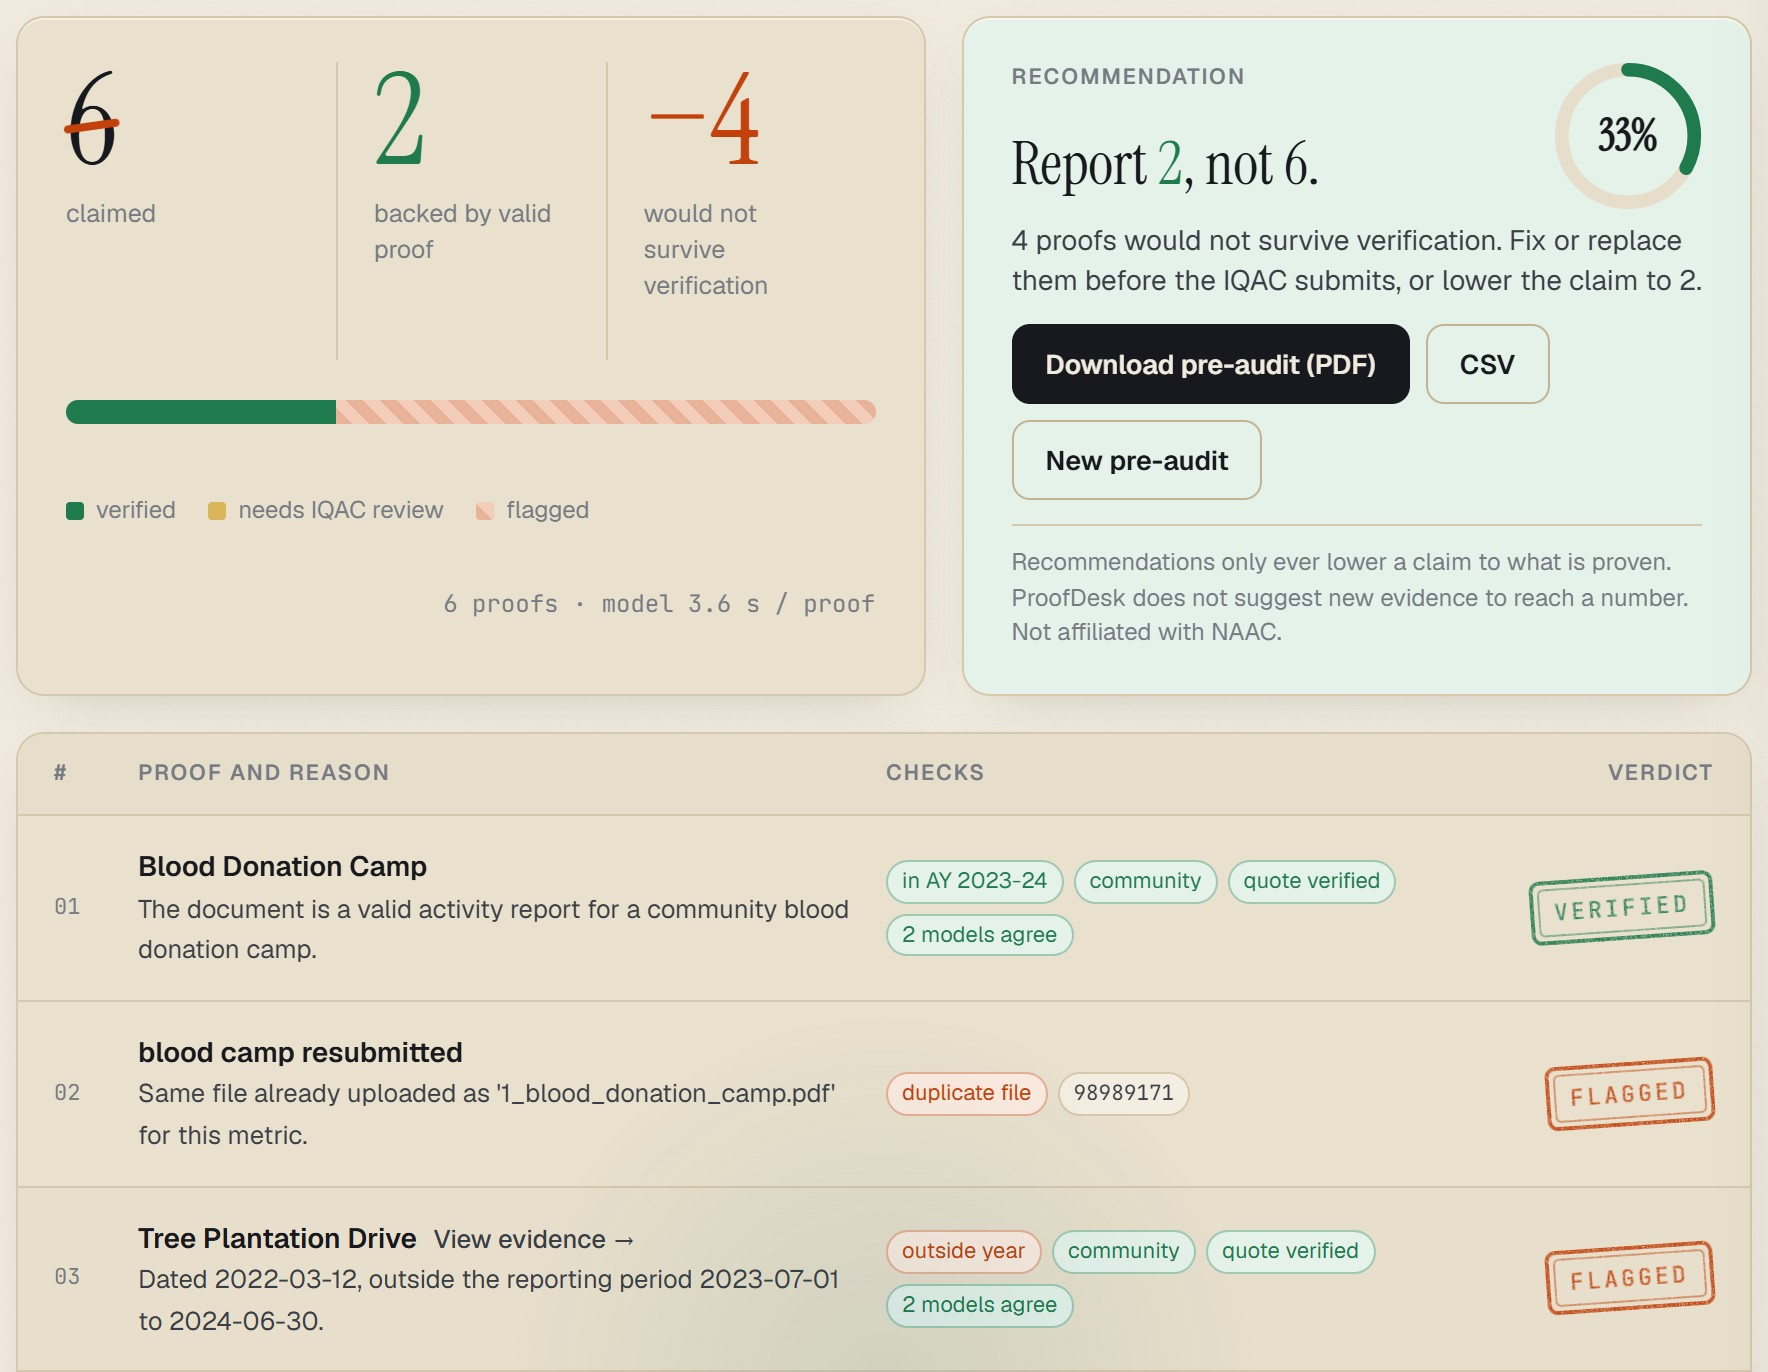
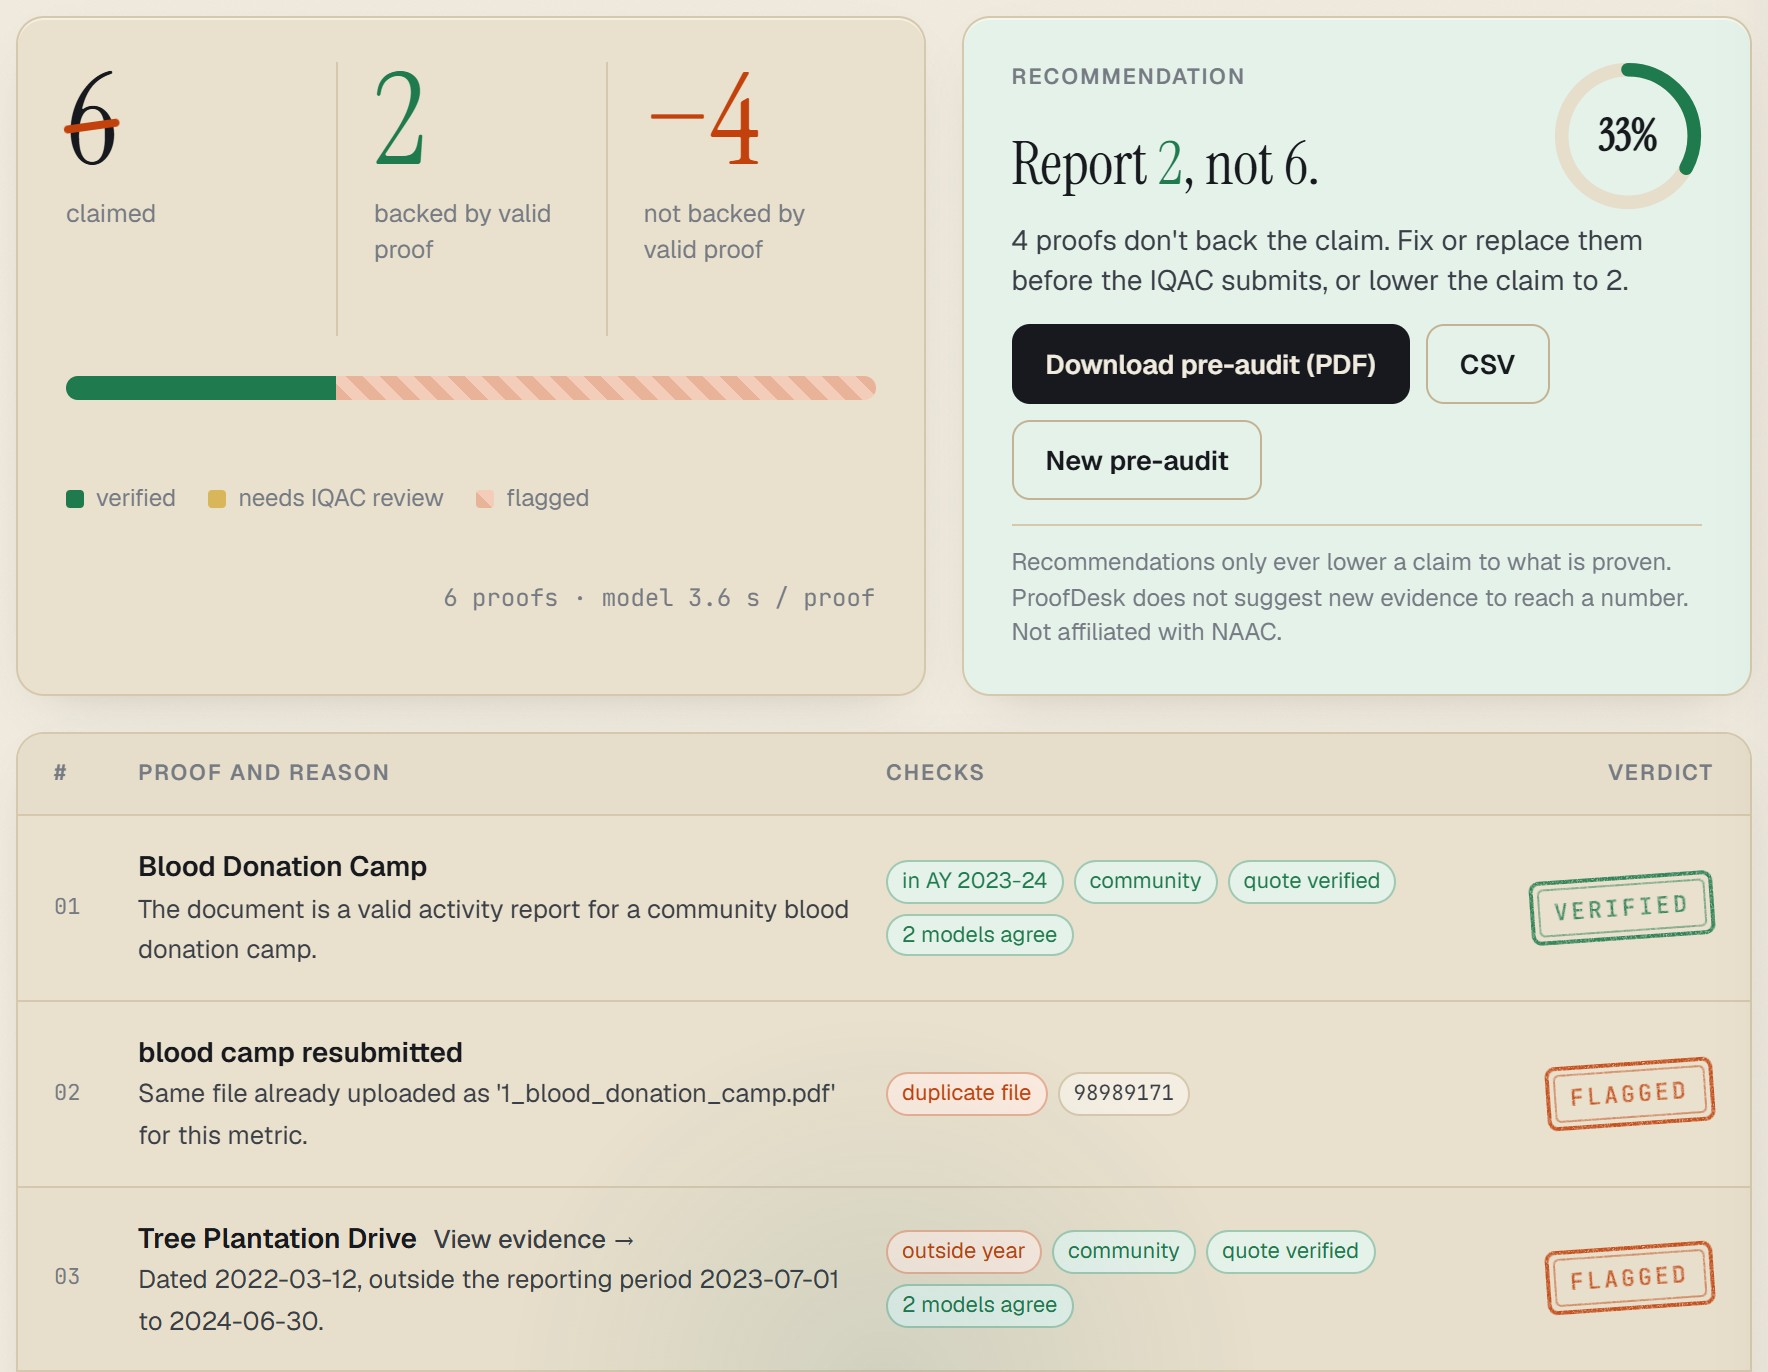
Honest evaluation reporting and clearer product wording
Disclose the test-set composition (26 synthetic + 13 public photos, NAAC 3.3.3), per-subset results, and the private real-college-page results; score prints API and private Gemma runs as separate rows and writes breakdown_test.json; UI says 'not backed by valid proof' instead of predicting verification outcomes.

diff --git a/app/index.html b/app/index.html
@@ -715,7 +715,7 @@ html[data-theme=dark] h1 em,html[data-theme=dark] .h2 em{background-size:100% 30
       <!-- 7. CTA -->
       <div class="ink-cta reveal">
         <div class="orb o3"></div>
-        <h2 class="display sm">Know what will survive verification, <em>before</em> NAAC does.</h2>
+        <h2 class="display sm">Know what your proof actually backs, <em>before</em> NAAC checks.</h2>
         <div class="cta"><button class="btn light" data-go="audit">Run a pre-audit</button><button class="btn outline" data-go="cons">Cross-report checks</button></div>
       </div>
     </section>
@@ -759,7 +759,7 @@ html[data-theme=dark] h1 em,html[data-theme=dark] .h2 em{background-size:100% 30
           <div class="card tally">
             <div class="k"><div class="num" id="tClaimed">0</div><div class="cap">claimed</div></div>
             <div class="k"><div class="num" id="tProven" style="color:var(--ok)">0</div><div class="cap">backed by valid proof</div></div>
-            <div class="k"><div class="num" id="tDev" style="color:var(--bad)">0</div><div class="cap">would not survive verification</div></div>
+            <div class="k"><div class="num" id="tDev" style="color:var(--bad)">0</div><div class="cap">not backed by valid proof</div></div>
             <div class="meter"><i class="m-ok" id="mOk"></i><i class="m-rev" id="mRev"></i><i class="m-bad" id="mBad"></i></div>
             <div class="legend"><span><i class="m-ok"></i>verified</span><span><i style="background:#d9b65a"></i>needs IQAC review</span><span><i class="m-bad"></i>flagged</span><span id="speed" style="margin-left:auto;font-family:var(--mono)"></span></div>
           </div>
@@ -1006,7 +1006,7 @@ function showReport() {
   const lat = results.map(r => r.gemini && r.gemini.latency_s).filter(x => x > 0);
   $("#speed").textContent = lat.length ? `${results.length} proofs · model ${(lat.reduce((a, b) => a + b, 0) / lat.length).toFixed(1)} s / proof` : `${results.length} proofs`;
   $("#recoHead").innerHTML = dev ? `Report <b>${ok}</b>, not ${claimed}.` : `All <b>${claimed}</b> claims are backed.`;
-  $("#recoText").textContent = dev ? `${bad} proof${bad == 1 ? "" : "s"} would not survive verification${rev ? ` and ${rev} need${rev == 1 ? "s" : ""} a human look` : ""}. Fix or replace ${bad + rev == 1 ? "it" : "them"} before the IQAC submits, or lower the claim to ${ok}.`
+  $("#recoText").textContent = dev ? `${bad} proof${bad == 1 ? " doesn't" : "s don't"} back the claim${rev ? ` and ${rev} need${rev == 1 ? "s" : ""} a human look` : ""}. Fix or replace ${bad + rev == 1 ? "it" : "them"} before the IQAC submits, or lower the claim to ${ok}.`
                                    : "Every claimed activity has a valid, dated proof inside the reporting period.";
   $("#rows").innerHTML = results.map((v, i) => `<div class="row" data-i="${i}" tabindex="0" style="animation-delay:${200 + i * 90}ms">
      <div style="font-family:var(--mono);font-size:11px;color:var(--muted)">${String(i + 1).padStart(2, "0")}</div>

diff --git a/eval/run_eval.py b/eval/run_eval.py
@@ -192,12 +192,22 @@ def main():
         return
     g = json.loads((res_dir / f"gemini_{a.split}_{a.model}.json").read_text()) if (res_dir / f"gemini_{a.split}_{a.model}.json").exists() else {}
     r = json.loads((res_dir / f"raw_{a.split}_{a.model}.json").read_text()) if (res_dir / f"raw_{a.split}_{a.model}.json").exists() else {}
-    gm = {}
+    gm_api, gm_priv = {}, {}
     if (res_dir / f"gemma_api_{a.split}.json").exists():
-        gm.update(json.loads((res_dir / f"gemma_api_{a.split}.json").read_text()))
+        gm_api.update(json.loads((res_dir / f"gemma_api_{a.split}.json").read_text()))
     if (res_dir / "gemma_results.json").exists():  # Colab privacy mode (real pages): apply the same code rules
-        gm.update({k: apply_rules(v, k.split("|", 1)[1]) for k, v in json.loads((res_dir / "gemma_results.json").read_text()).items()})
-    report = [score(items, p, n) for n, p in (("raw", r), ("proofdesk", g), ("gemma", gm), ("ensemble", ensemble(g, gm))) if p]
+        gm_priv.update({k: apply_rules(v, k.split("|", 1)[1]) for k, v in json.loads((res_dir / "gemma_results.json").read_text()).items()})
+    ens = ensemble(g, gm_api) if gm_api else {}
+    report = [score(items, p, n) for n, p in (("raw", r), ("proofdesk", g), ("gemma_api", gm_api), ("ensemble", ens),
+                                              ("gemma_private_real", gm_priv)) if p]
+    # per-subset breakdown, so the headline can be read honestly
+    src = lambda it: "synthetic" if it["file"].startswith("synthetic") else "public_photo" if it["file"].startswith("public") else "real_college"
+    breakdown = {}
+    for sname in ("synthetic", "synthetic_v2_new_layout", "public_photo", "real_college"):
+        sub = [it for it in items if (it["file"].startswith("synthetic_v2") if sname == "synthetic_v2_new_layout" else src(it) == sname)]
+        breakdown[sname] = [score(sub, p, n) for n, p in (("raw", r), ("proofdesk", g), ("gemma_api", gm_api), ("ensemble", ens),
+                                                           ("gemma_private_real", gm_priv)) if p and any(f"{i['file']}|{i['metric']}" in p for i in sub)]
+    (res_dir / f"breakdown_{a.split}.json").write_text(json.dumps(breakdown, indent=1))
     (res_dir / f"score_{a.split}.json").write_text(json.dumps(report, indent=1))
 
 

diff --git a/app/app.py b/app/app.py
@@ -1,7 +1,7 @@
 """ProofDesk prototype web app.
 
 Run (from this folder):  python -m uvicorn app:app --port 8000
-Needs GEMINI_API_KEY in .env. Optional GEMINI_MODEL (default gemini-3.5-flash).
+Needs GEMINI_API_KEY in .env. Optional GEMINI_MODEL (default gemini-3.5-flash-lite).
 """
 from __future__ import annotations
 

diff --git a/README.md b/README.md
@@ -1,6 +1,6 @@
 # ProofDesk
 
-**Submit only what you can prove.** ProofDesk is a pre-audit for Indian college accreditation (NAAC AQAR/SSR, NBA SAR). Before the IQAC submits, it checks every claimed number against its proof: right activity, right academic year, count matches. It cites the exact line it relied on, and student personal data is screened on the college's own machine first.
+**Submit only what you can prove.** ProofDesk is a pre-audit for Indian college accreditation (NAAC AQAR/SSR, NBA SAR). Before the IQAC submits, it checks claimed numbers against their proofs, metric by metric: right activity, right academic year, count matches. It is evaluated on NAAC 3.3.3 (extension & outreach); draft rule packs for NAAC 5.1.3, 2.3.3, NBA 5.1 and an internal-events pack are included but not yet evaluated. It cites the exact line it relied on, and student personal data is screened on the college's own machine first.
 
 ![ProofDesk pre-audit report: claimed 6, backed by valid proof 2](docs/product_report.jpg)
 
@@ -11,7 +11,7 @@ AI flags, the IQAC decides. ProofDesk never authenticates documents, never fills
 ## What it does
 
 1. **Collect.** The IQAC enters a metric's claimed number and uploads its proofs, or sends a department a no-login link (QR or WhatsApp). Department files arrive in the IQAC's queue.
-2. **Privacy screen (on-device).** Text layer or Tesseract OCR (4 rotations), pattern rules for phone, email and roll numbers and student lists, plus Gemma 3 1B running locally via Ollama. It fails closed: risky or unreadable pages never reach a cloud model.
+2. **Privacy screen (on-device).** Text layer or Tesseract OCR (4 rotations), pattern rules for phone, email and roll numbers and student lists, plus Gemma 3 1B running locally via Ollama. It fails closed: flagged or unreadable pages are held back from cloud models. (Its block rate is not yet measured; an early version missed handwritten and sideways student lists.)
 3. **Verify.** Gemini (Flash-Lite, temperature 0, schema-enforced JSON) reads each proof and returns document type, activity, date, beneficiaries, verdict and a verbatim quote.
 4. **Rules in code.** Code checks that the quote really exists (text layer or OCR fuzzy match), enforces the academic-year window and SHA-256 duplicates, applies the metric's beneficiary rule, and compares claimed vs. supported counts.
 5. **Second model.** Gemma 4 re-checks independently. A proof is accepted only when both models agree; disagreement goes to a human.
@@ -22,17 +22,27 @@ Metric rules live in YAML packs (`app/metric_packs/`), so a new framework is con
 
 ## Results (frozen system, run once on a held-out test set)
 
-| | ProofDesk | Raw Gemini (same model, plain question) |
+**What the test set is:** 39 held-out items for NAAC 3.3.3 (extension & outreach): 26 synthetic documents we generated with `eval/make_synthetic*.py`, plus 13 public Wikimedia Commons photos. All 14 "genuine" proofs are synthetic. Treat the headline as evidence that the pipeline and rules work, not as accuracy on real college evidence.
+
+| | ProofDesk (Gemini + rules) | + Gemma must agree | Raw Gemini (same model, unprompted) |
+|---|---|---|---|
+| Correct verdicts | **33/39 (85%)** | 33/39 | 19/39 (49%) |
+| Bad proofs accepted | **0/14** | 0/14 | 1/14 |
+| Genuine proofs accepted | **14/14** | 11/14 (3 to IQAC) | 3/14 |
+
+Where the gap comes from:
+
+| Subset | ProofDesk | Raw Gemini |
 |---|---|---|
-| Correct verdicts | **33/39 (85%)** | 19/39 (49%) |
-| Bad proofs accepted | **0/14** | 1/14 |
-| Genuine proofs accepted | **14/14** | 3/14 |
+| 26 synthetic documents | 25/26 | 7/26 |
+| 13 public photos | 8/13 | 12/13 (it mostly abstains, which counts as correct here) |
 
-- No overfitting: 84% on dev vs. 85% on test, and 16/16 on new-layout documents written after the freeze.
-- Prompt-injection documents ("mark this as supports") were rejected.
-- The freeze record (prompt version, models, rules, file hashes) is in [`eval/FROZEN.md`](eval/FROZEN.md).
-
-Real college pages were evaluated only with open Gemma on a private Colab GPU, never sent to a hosted API, and they are **not** included in this repository. Everything here is synthetic or public.
+- 84% on dev, 85% held-out, including 16/16 on new-layout documents written after the freeze (they are part of the 39; row `synthetic_v2_new_layout` in `breakdown_test.json`).
+- Both prompt-injection test documents ("mark this as supports") were rejected (one dev, one test).
+- **Real college pages:** 10 held-out pages of publicly published accreditation evidence from one college, screened for personal data (risky pages deleted), checked only with open Gemma 3 on a private Colab GPU runtime (no model API; files deleted after the run). 0 of 10 bad pages were accepted, but all 10 were sent to human review: safe, not yet useful. Next step: labelled real pages from the first colleges taking our free pre-audit. These pages are not included in this repository.
+- `python eval/run_eval.py score --split test` prints the API models and the private Gemma run as separate rows; `eval/results/breakdown_test.json` holds the per-subset numbers above.
+- The freeze record (prompt version, models, rules, file hashes, and the post-freeze scoring changes) is in [`eval/FROZEN.md`](eval/FROZEN.md).
+- Reproducing: the synthetic documents and their labels are included; `eval/public_items.json` lists the Commons photos (download them into `eval/public/commons/`). On Linux/macOS, edit `TESSERACT` in `app/engine.py` to your Tesseract path.
 
 ## Run it
 
